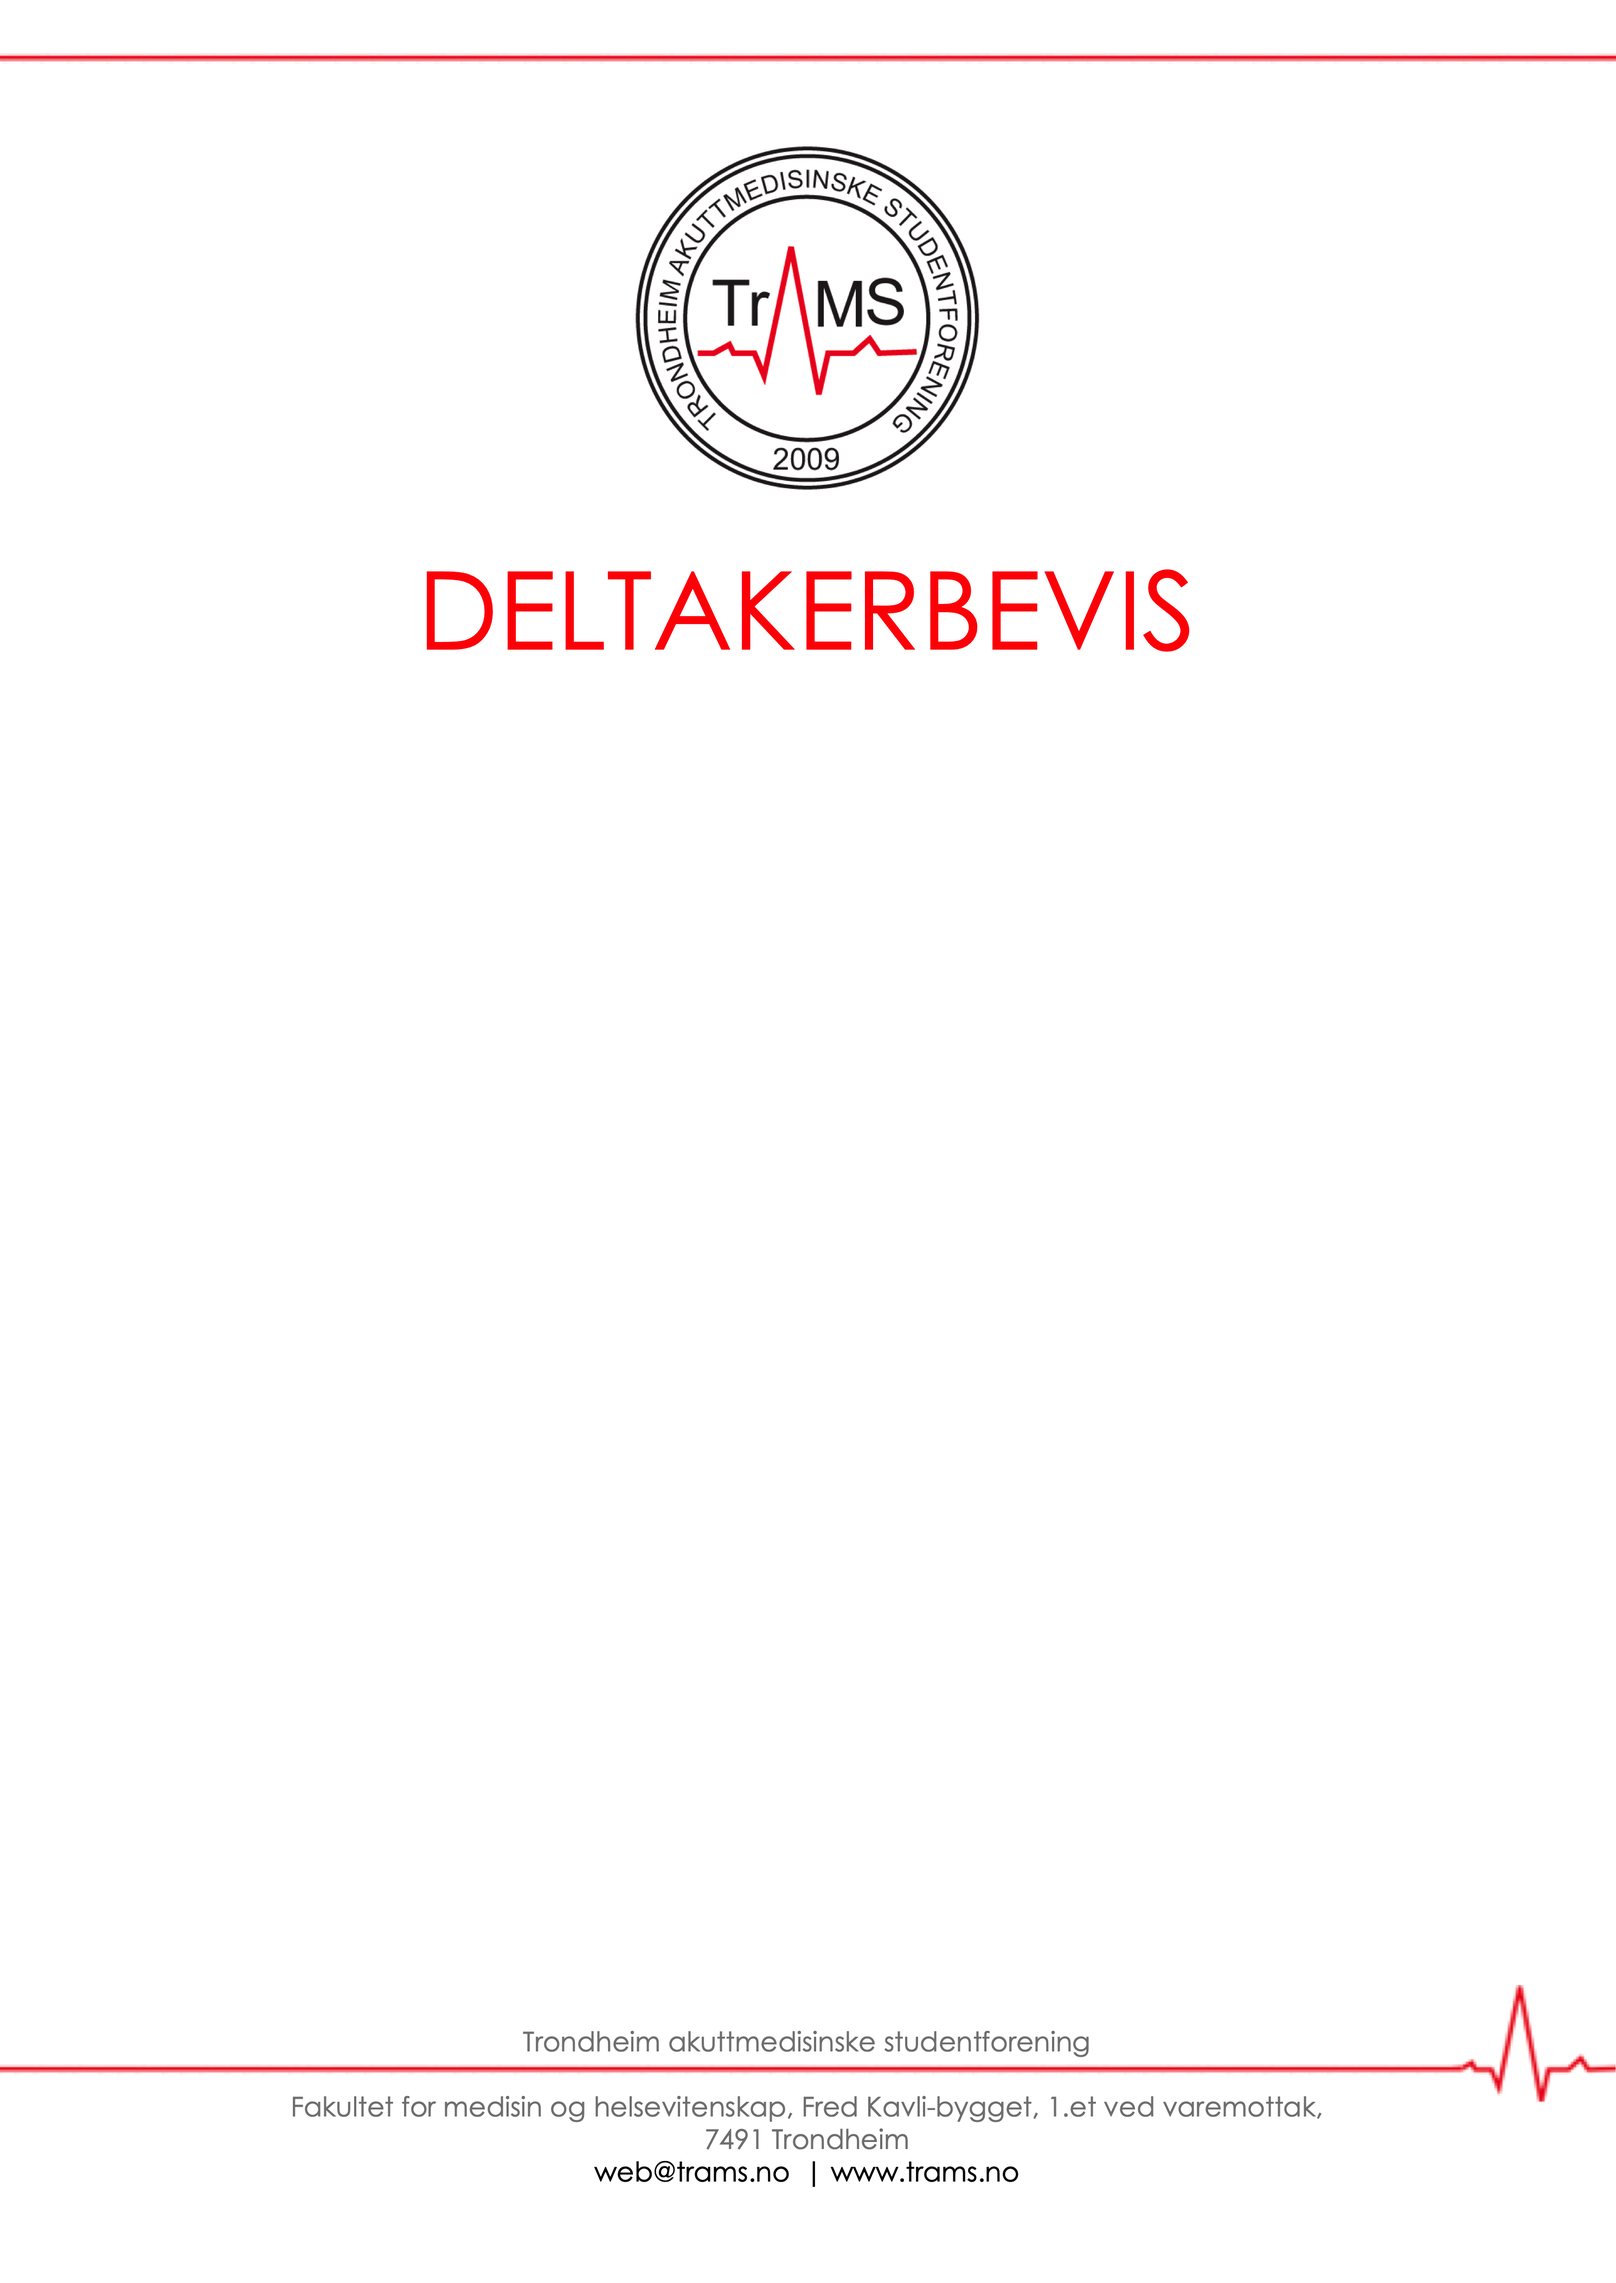
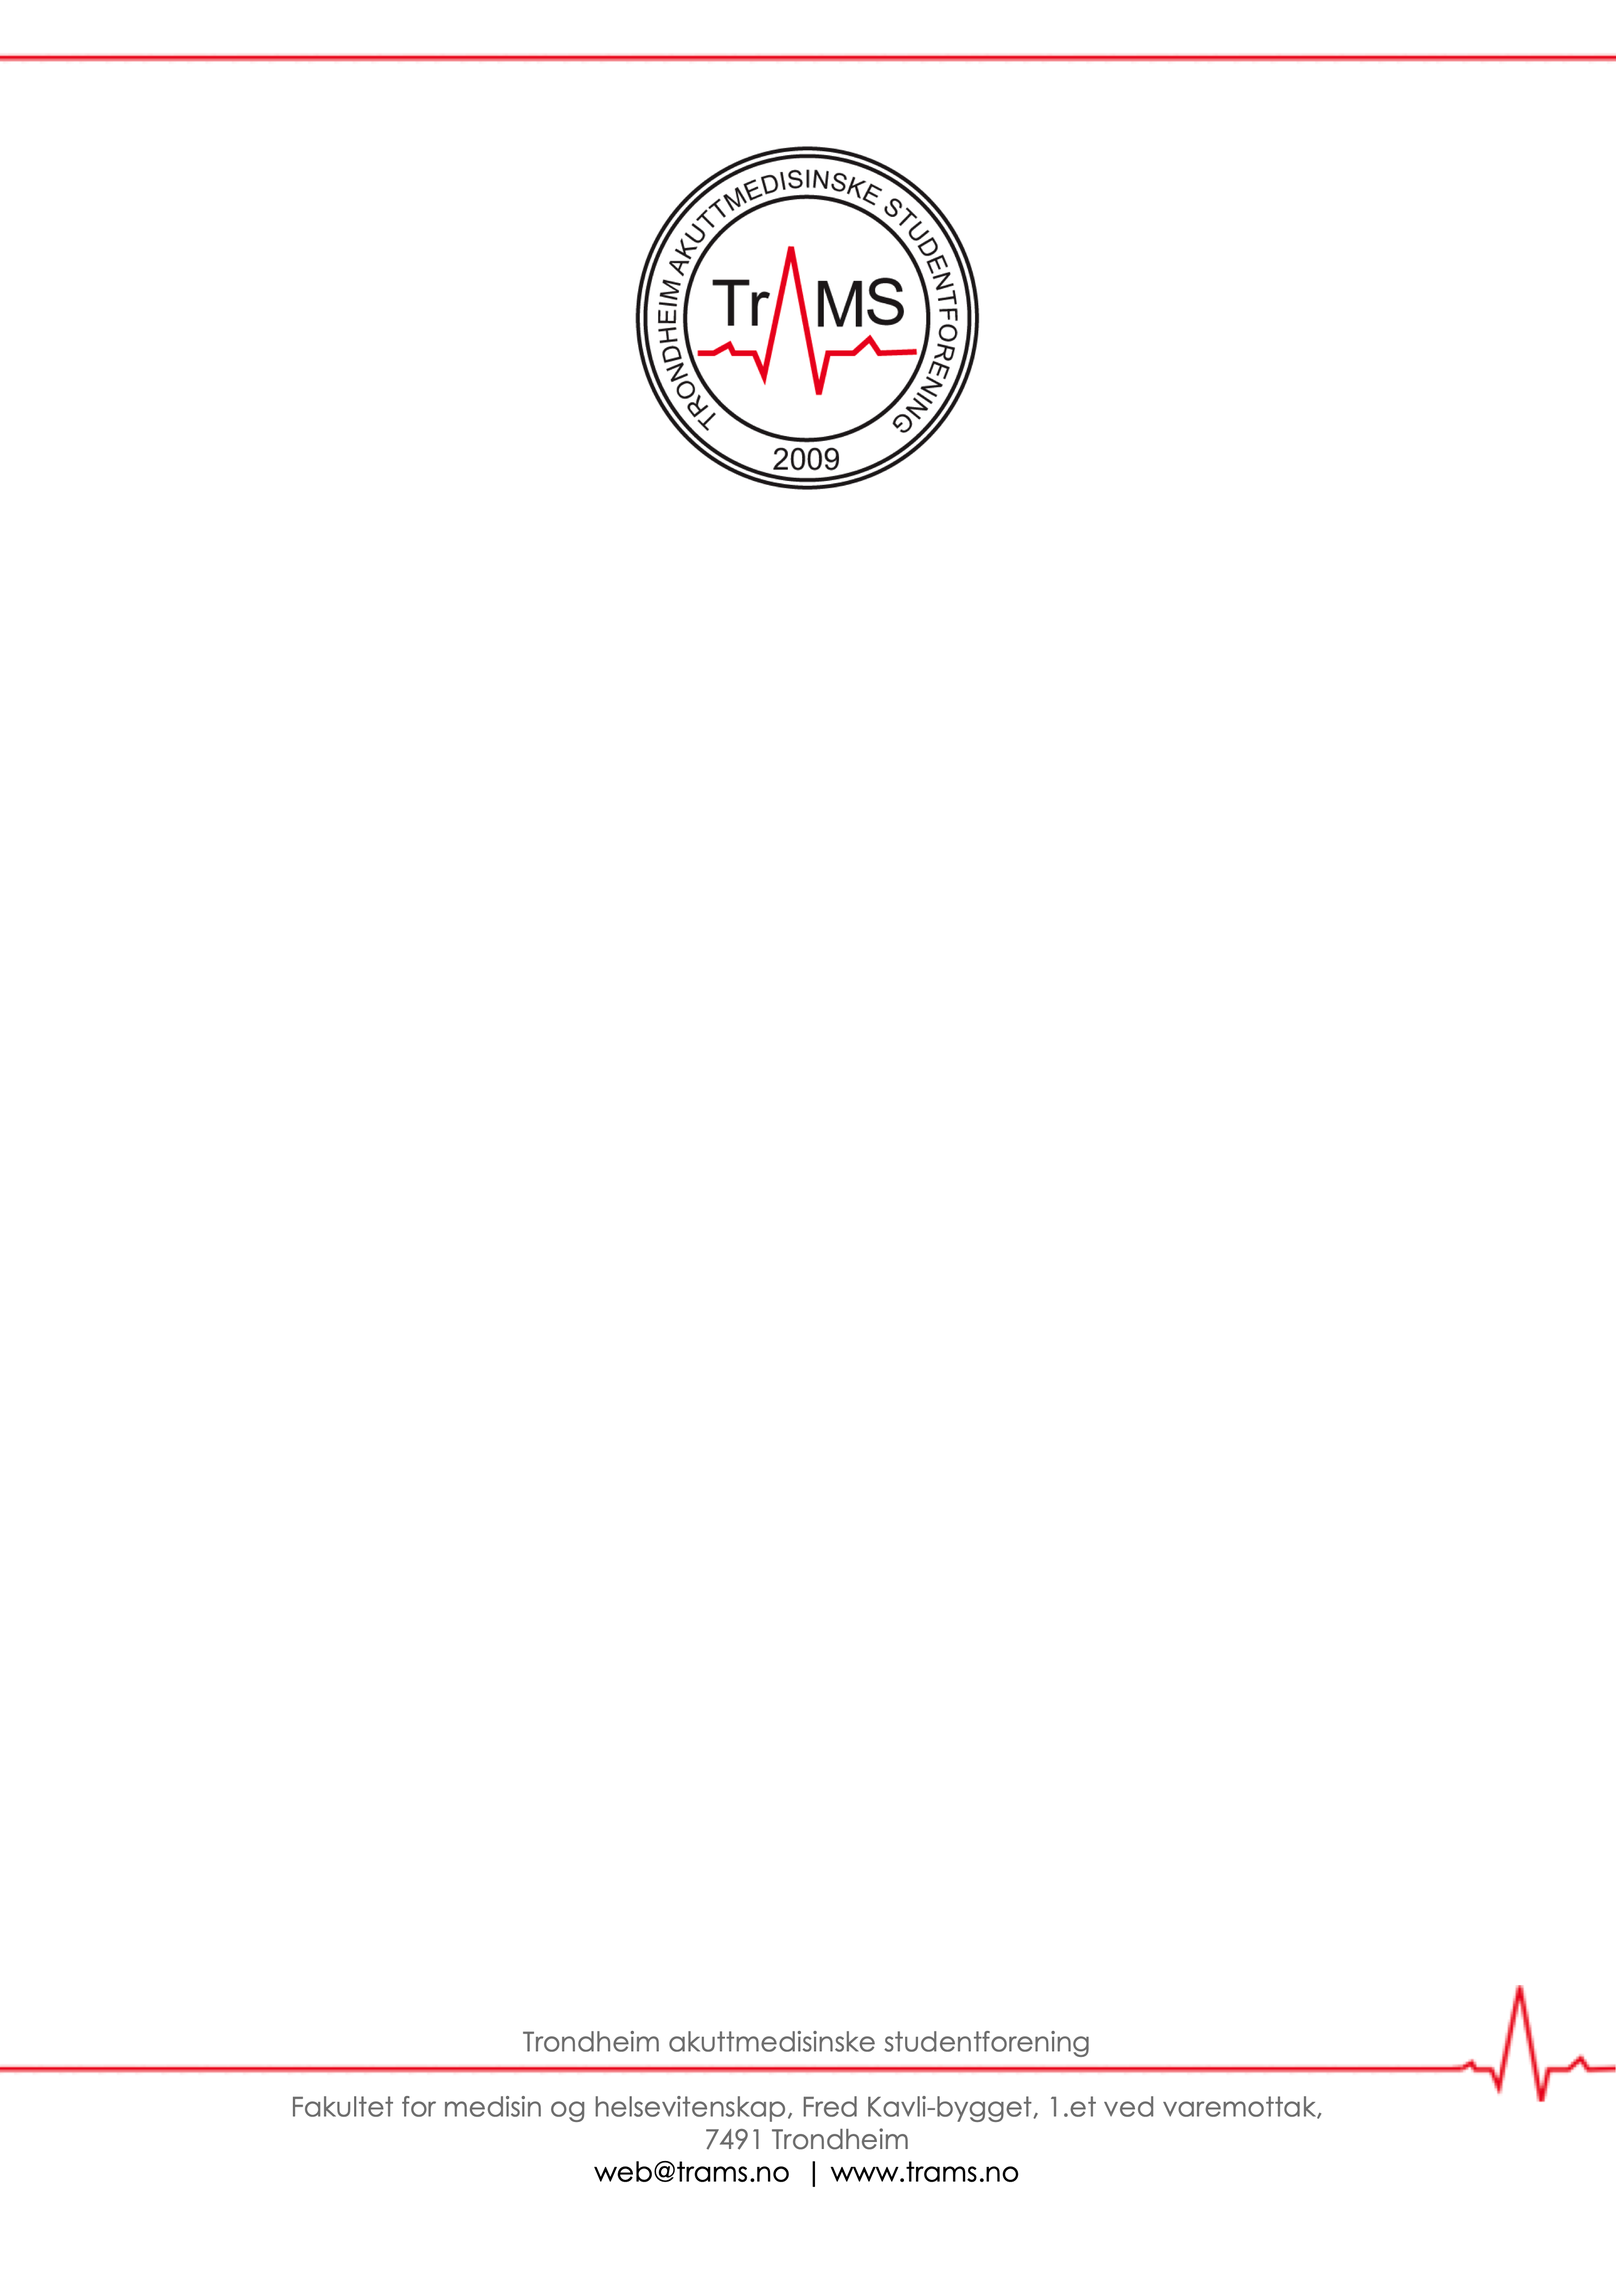
make certificate text editable in streamlit app
Draw the title and body text from a single editable markup text
instead of hardcoded strings, so the template image can be text-free.

Changed region(s): [[0.2497, 0.2489, 0.749, 0.3112]]

diff --git a/attest_gen/certificate.py b/attest_gen/certificate.py
@@ -26,12 +26,104 @@ def register_fonts():
     pdfmetrics.registerFont(TTFont("CenturyGothicBold", FONT_BOLD))
 
 
+# Default certificate text. Markup, one style per line:
+#   "# text"    title (red, fixed position below the logo)
+#   "## text"   large bold text
+#   "**text**"  bold text
+#   "> text"    small text
+# Every empty line adds BLANK_LINE_HEIGHT of space. {navn} and {dato} are placeholders.
+DEFAULT_CERTIFICATE_TEXT = """\
+# DELTAKERBEVIS
+
+Det bekreftes at
+
+
+## {navn}
+
+
+har fullført TrAMS førstehjelpskurs.
+
+3 timers kurs i basal livreddende førstehjelp inkludert ABC-drillen og
+Basal-HLR-undervisning.
+
+
+Kurset ble arrangert {dato} av
+**Trondheim akuttmedisinske studentforening (TrAMS).**
+
+
+
+> Kurset består av undervisning i ABC-drill og basal hjerte-lunge-redning, samt
+> mye praktisk trening. Deltakeren har demonstrert sine teoretiske og praktiske
+> ferdigheter under casetrening i realistiske omgivelser.
+"""
+
+# Title metrics measured from the original template image
+TITLE_FONT_SIZE = 40
+TITLE_BASELINE_FROM_TOP = 239.3
+TITLE_COLOR = (252 / 255, 0, 7 / 255)
+
+TEXT_TOP_FROM_TOP = 320
+TEXT_MARGIN = 40
+BLANK_LINE_HEIGHT = 10
+
+# style -> (font, size, leading, extra space above, extra space below)
+LINE_STYLES = {
+    "normal": ("CenturyGothic", 14, 20, 0, 0),
+    "large": ("CenturyGothicBold", 18, 20, 0, 0),
+    "bold": ("CenturyGothicBold", 14, 20, 5, 7),
+    "small": ("CenturyGothic", 12, 18, 0, 0),
+}
+
+
+def _parse_line(line: str) -> tuple[str, str]:
+    """Return (style, text) for one line of certificate markup."""
+    line = line.strip()
+    if line.startswith("##"):
+        return "large", line[2:].strip()
+    if line.startswith("#"):
+        return "title", line[1:].strip()
+    if line.startswith(">"):
+        return "small", line[1:].strip()
+    if len(line) > 4 and line.startswith("**") and line.endswith("**"):
+        return "bold", line[2:-2].strip()
+    return "normal", line
+
+
+def _wrap_line(text: str, font: str, size: float, max_width: float) -> list[str]:
+    """Wrap a line that is too wide for the page."""
+    lines = []
+    line = ""
+    for word in text.split():
+        candidate = f"{line} {word}" if line else word
+        if line and pdfmetrics.stringWidth(candidate, font, size) > max_width:
+            lines.append(line)
+            line = word
+        else:
+            line = candidate
+    if line:
+        lines.append(line)
+    return lines
+
+
+def _draw_title(c: canvas.Canvas, tittel: str, width: float, height: float) -> None:
+    max_width = width - 2 * TEXT_MARGIN
+    size = TITLE_FONT_SIZE
+    text_width = pdfmetrics.stringWidth(tittel, "CenturyGothic", size)
+    if text_width > max_width:
+        size *= max_width / text_width
+
+    c.setFont("CenturyGothic", size)
+    c.setFillColorRGB(*TITLE_COLOR)
+    c.drawCentredString(width / 2, height - TITLE_BASELINE_FROM_TOP, tittel)
+
+
 def create_certificate(
     navn: str,
     dato: str,
     filnavn: str,
     malbilde: str = DEFAULT_TEMPLATE,
     signature_file: str | None = DEFAULT_SIGNATURE,
+    tekst: str = DEFAULT_CERTIFICATE_TEXT,
 ) -> None:
     """Create a single certificate PDF.
 
@@ -39,52 +131,41 @@ def create_certificate(
         navn: Participant name.
         dato: Course date (displayed on certificate).
         filnavn: Output PDF path.
-        malbilde: Path to template image.
+        malbilde: Path to template image (without text).
         signature_file: Path to signature image, or None to omit.
+        tekst: Certificate text markup (see DEFAULT_CERTIFICATE_TEXT).
     """
     c = canvas.Canvas(filnavn, pagesize=A4)
     width, height = A4
+    max_width = width - 2 * TEXT_MARGIN
 
     bakgrunn = ImageReader(malbilde)
     c.drawImage(bakgrunn, 0, 0, width=width, height=height)
 
-    text_top = height - 320
+    y_pos = height - TEXT_TOP_FROM_TOP
+    first_line = True
+    space_below = 0
+    for raw in tekst.splitlines():
+        style, text = _parse_line(raw.replace("{navn}", navn).replace("{dato}", dato))
+        if style == "title":
+            if text:
+                _draw_title(c, text, width, height)
+            continue
+        if not text:
+            # Empty lines before the first text line do not move the text down
+            if not first_line:
+                y_pos -= BLANK_LINE_HEIGHT
+            continue
 
-    c.setFont("CenturyGothic", 14)
-    c.setFillColorRGB(0, 0, 0)
-    c.drawCentredString(width / 2, text_top, "Det bekreftes at")
-
-    c.setFont("CenturyGothicBold", 18)
-    c.drawCentredString(width / 2, text_top - 40, navn)
-
-    c.setFont("CenturyGothic", 14)
-    c.drawCentredString(width / 2, text_top - 80, "har fullført TrAMS førstehjelpskurs.")
-
-    kursinfo = (
-        "3 timers kurs i basal livreddende førstehjelp inkludert ABC-drillen og",
-        "Basal-HLR-undervisning.",
-    )
-    y_pos = text_top - 110
-    for line in kursinfo:
-        c.drawCentredString(width / 2, y_pos, line)
-        y_pos -= 20
-
-    arrangeringsinfo = f"Kurset ble arrangert {dato} av"
-    c.drawCentredString(width / 2, y_pos - 20, arrangeringsinfo)
-
-    c.setFont("CenturyGothicBold", 14)
-    c.drawCentredString(width / 2, y_pos - 45, "Trondheim akuttmedisinske studentforening (TrAMS).")
-
-    beskrivelse = (
-        "Kurset består av undervisning i ABC-drill og basal hjerte-lunge-redning, samt",
-        "mye praktisk trening. Deltakeren har demonstrert sine teoretiske og praktiske",
-        "ferdigheter under casetrening i realistiske omgivelser.",
-    )
-    y_pos -= 100
-    c.setFont("CenturyGothic", 12)
-    for line in beskrivelse:
-        c.drawCentredString(width / 2, y_pos, line)
-        y_pos -= 18
+        font, size, leading, space_above, next_space_below = LINE_STYLES[style]
+        c.setFont(font, size)
+        c.setFillColorRGB(0, 0, 0)
+        for i, line in enumerate(_wrap_line(text, font, size, max_width)):
+            if not first_line:
+                y_pos -= leading + (space_above + space_below if i == 0 else 0)
+            first_line = False
+            c.drawCentredString(width / 2, y_pos, line)
+        space_below = next_space_below
 
     if signature_file and os.path.exists(signature_file):
         sign_img = ImageReader(signature_file)
@@ -104,6 +185,7 @@ def generate_certificates(
     output_dir: str = DEFAULT_OUTPUT_DIR,
     malbilde: str = DEFAULT_TEMPLATE,
     signature_file: str | None = DEFAULT_SIGNATURE,
+    tekst: str = DEFAULT_CERTIFICATE_TEXT,
 ) -> list[str]:
     """Generate certificate PDFs for all participants.
 
@@ -117,7 +199,7 @@ def generate_certificates(
     for navn, dato in deltagere:
         safe_navn = navn.replace(" ", "_")
         filnavn = os.path.join(output_dir, f"deltakerbevis_{safe_navn}.pdf")
-        create_certificate(navn, dato, filnavn, malbilde, signature_file)
+        create_certificate(navn, dato, filnavn, malbilde, signature_file, tekst)
         generated.append(filnavn)
     return generated
 

diff --git a/app.py b/app.py
@@ -5,7 +5,7 @@ from datetime import datetime
 
 import streamlit as st
 
-from attest_gen import create_certificate, register_fonts as register_fonts_impl
+from attest_gen import DEFAULT_CERTIFICATE_TEXT, create_certificate, register_fonts as register_fonts_impl
 from attest_gen.email import (
     get_resend_config,
     is_valid_email,
@@ -86,7 +86,34 @@ def parse_names_and_emails(
     return participants, []
 
 
-def generate_certificates_ui(deltagere: list[tuple[str, str, str | None]], template_file, signature_file) -> None:
+def reset_certificate_text() -> None:
+    st.session_state["cert_text"] = DEFAULT_CERTIFICATE_TEXT
+
+
+def render_certificate_text_editor() -> str:
+    """Show the editable certificate text. Returns the current text."""
+    with st.expander("Rediger teksten på attesten"):
+        st.caption(
+            "Bruk {navn} og {dato} som plassholdere. Start en linje med `#` for tittel, "
+            "`##` for stor fet tekst og `>` for liten tekst. Skriv `**tekst**` for fet tekst. "
+            "Hver tomme linje gir litt ekstra luft."
+        )
+        tekst = st.text_area(
+            "Tekst på attesten",
+            value=DEFAULT_CERTIFICATE_TEXT,
+            height=480,
+            key="cert_text",
+        )
+        st.button("Tilbakestill til standardtekst", on_click=reset_certificate_text)
+    return tekst
+
+
+def generate_certificates_ui(
+    deltagere: list[tuple[str, str, str | None]],
+    template_file,
+    signature_file,
+    tekst: str,
+) -> None:
     """Generate PDFs and store paths + participants in session_state."""
     template_path = DEFAULT_TEMPLATE
     tmp_template = None
@@ -130,7 +157,7 @@ def generate_certificates_ui(deltagere: list[tuple[str, str, str | None]], templ
         filnavn = os.path.join(DEFAULT_OUTPUT_DIR, f"deltakerbevis_{safe_navn}.pdf")
 
         try:
-            create_certificate(navn, dato, filnavn, template_path, signature_path)
+            create_certificate(navn, dato, filnavn, template_path, signature_path, tekst)
             generated_files.append(filnavn)
             generated_recipients.append((navn, dato, email, filnavn))
         except Exception as e:
@@ -280,8 +307,10 @@ def main():
     template_file = st.file_uploader(
         "Last opp malbilde (valgfritt)",
         type=["png", "jpg", "jpeg"],
-        help="Hvis du ikke laster opp en mal, brukes malen fra assets/.",
+        help="Hvis du ikke laster opp en mal, brukes malen fra assets/. Malen skal være uten tekst.",
     )
+
+    tekst = render_certificate_text_editor()
 
     st.header("Deltakere")
     input_mode = st.radio(
@@ -345,7 +374,7 @@ def main():
             )
 
         if generate_button:
-            generate_certificates_ui(deltagere, template_file, signature_file)
+            generate_certificates_ui(deltagere, template_file, signature_file, tekst)
 
         render_download_and_email_section()
     else:

diff --git a/attest_gen/__init__.py b/attest_gen/__init__.py
@@ -1,6 +1,7 @@
 """TrAMS attest generator – certificate PDFs for first-aid course."""
 
 from attest_gen.certificate import (
+    DEFAULT_CERTIFICATE_TEXT,
     create_certificate,
     generate_certificates,
     parse_participants_from_file,
@@ -23,6 +24,7 @@ from attest_gen.paths import (
 )
 
 __all__ = [
+    "DEFAULT_CERTIFICATE_TEXT",
     "create_certificate",
     "generate_certificates",
     "parse_participants_from_file",

diff --git a/README.md b/README.md
@@ -35,6 +35,7 @@ Denne Streamlit-appen er designet for å lage ferdiglagde TrAMS-attester for HLR
 
 6. **Bruk appen**:
    - Velg **kursdato**, last opp signaturbilde (og eventuelt malbilde)
+   - Under **Rediger teksten på attesten** kan du endre tittelen og teksten på attesten i ett tekstfelt (bruk `{navn}` og `{dato}` som plassholdere; `#` = tittel, `##` = stor fet tekst, `**tekst**` = fet tekst, `>` = liten tekst)
    - Under **Deltakere**, velg **Kun navn** eller **Navn + e-post**
    - **Kun navn**: skriv inn deltakernes navn (ett per linje), generer, og last ned ZIP
    - **Navn + e-post**: lim inn navn og e-poster i hver sin tekstboks (samme antall linjer, linje 1 matcher linje 1). Etter generering kan du sende hver person sitt deltakerbevis på e-post
@@ -78,7 +79,7 @@ attest-gen/
 │   ├── email.py        # Resend e-postsending med PDF-vedlegg
 │   └── paths.py       # Stier til ressurser
 └── assets/             # Maler og fonter
-    ├── Template.png    # Mal for attestene (kan overstyres i appen)
+    ├── Template.png    # Mal uten tekst (kan overstyres i appen)
     ├── signature.png   # Standard signatur (kan overstyres i appen)
     └── fonts/
         ├── centurygothic.ttf
